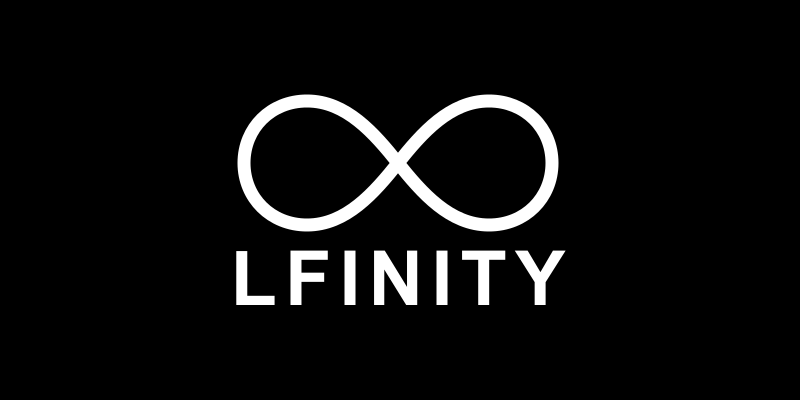
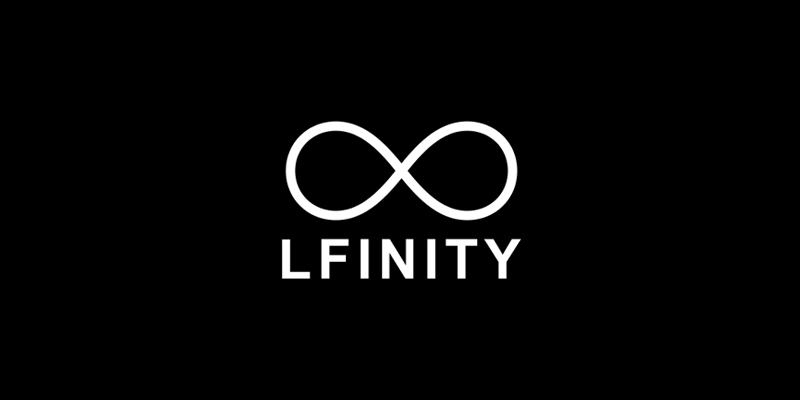
공유 이미지 및 모바일 상품 혜택 수정

Changed region(s): [[0.2812, 0.21, 0.7188, 0.78]]

diff --git a/style.css b/style.css
@@ -96,5 +96,5 @@ table { width:100%; overflow:hidden; border:1px solid #eee; border-spacing:0; bo
   .size-table-wrap { grid-template-columns:1fr; }
   .table-area { overflow-x:auto; }
 }
-@media (max-width:560px) { .product-page{width:100%;margin:0}.product-hero,.detail-section{border-radius:0;padding:20px}.product-info{padding:0}h1{font-size:30px}.price{font-size:17px}.color-list{gap:2px}.swatch{width:30px}.color-note{align-items:flex-start;flex-direction:column;gap:4px}.feature-list{padding:14px 10px;gap:4px}.feature-list li{flex-direction:column;gap:3px;text-align:center;white-space:normal}.service-list{grid-template-columns:1fr}.service-list li{padding:15px}.process-list{grid-template-columns:repeat(2,1fr)}.process-list li:nth-child(3){border-right:1px solid #eee}.process-list li:nth-child(even){border-right:0}.detail-section header{align-items:flex-start;flex-direction:column;gap:4px} }
+@media (max-width:560px) { .product-page{width:100%;margin:0}.product-hero,.detail-section{border-radius:0;padding:20px}.product-info{padding:0}h1{font-size:30px}.price{font-size:17px}.color-list{gap:2px}.swatch{width:30px}.color-note{align-items:flex-start;flex-direction:column;gap:4px}.feature-list{display:grid;grid-template-columns:repeat(3,minmax(0,1fr));padding:14px 8px;gap:8px}.feature-list li{width:100%;flex-direction:column;gap:5px;text-align:center;white-space:normal;font-size:12px;line-height:1.35;word-break:keep-all}.feature-list li span{display:block;min-width:0}.service-list{grid-template-columns:1fr}.service-list li{padding:15px}.process-list{grid-template-columns:repeat(2,1fr)}.process-list li:nth-child(3){border-right:1px solid #eee}.process-list li:nth-child(even){border-right:0}.detail-section header{align-items:flex-start;flex-direction:column;gap:4px} }
 @media (max-width:560px) { .product-visual{flex-basis:auto;height:auto;aspect-ratio:4/3;padding:16px} }

diff --git a/index.html b/index.html
@@ -10,7 +10,7 @@
     <meta property="og:title" content="LFINITY 커스텀 유니폼 세트" />
     <meta property="og:description" content="원하는 컬러와 이름으로 완성하는 나만의 커스텀 유니폼입니다." />
     <meta property="og:url" content="https://lfinity-uniform.youngjun.workers.dev/" />
-    <meta property="og:image" content="https://lfinity-uniform.youngjun.workers.dev/images/og-lfinity.png?v=2" />
+    <meta property="og:image" content="https://lfinity-uniform.youngjun.workers.dev/images/og-lfinity.png?v=3" />
     <meta property="og:image:width" content="800" />
     <meta property="og:image:height" content="400" />
     <link rel="stylesheet" href="style.css" />
